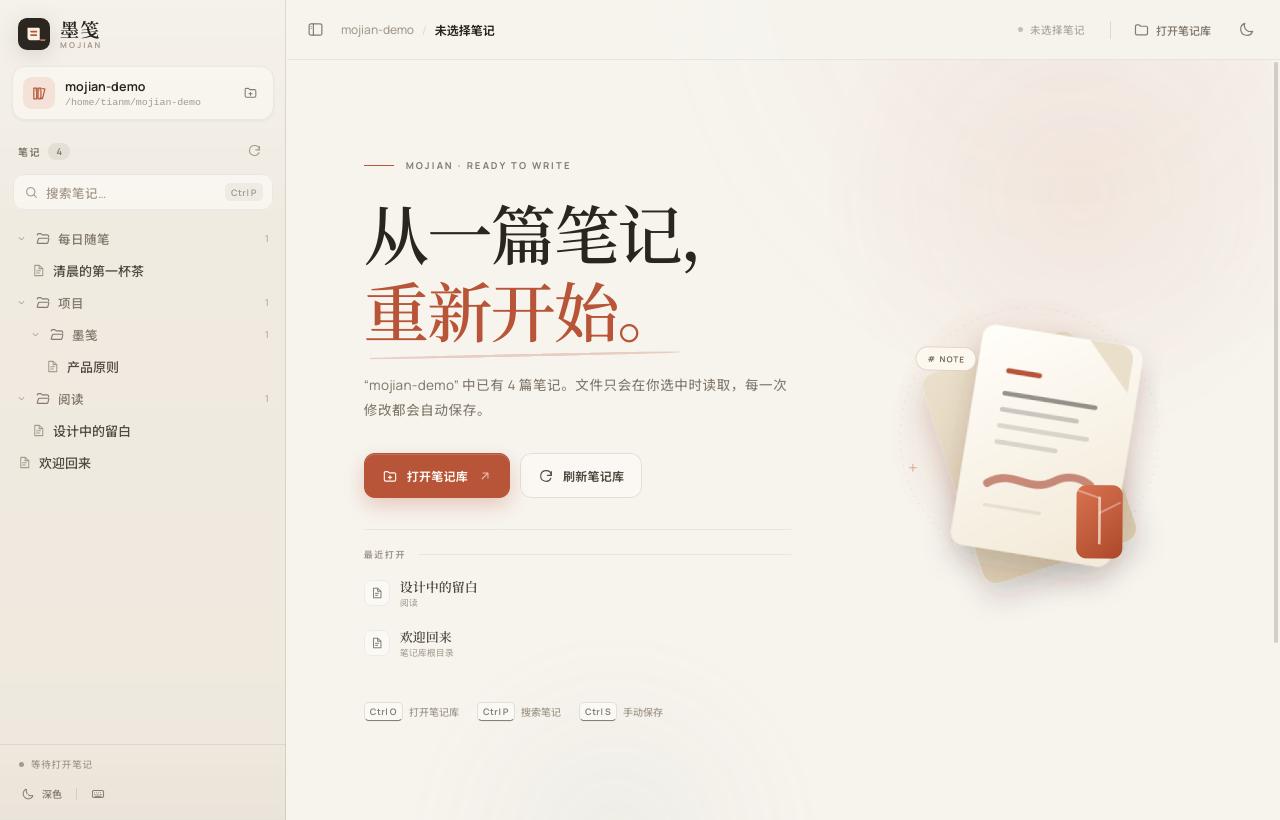
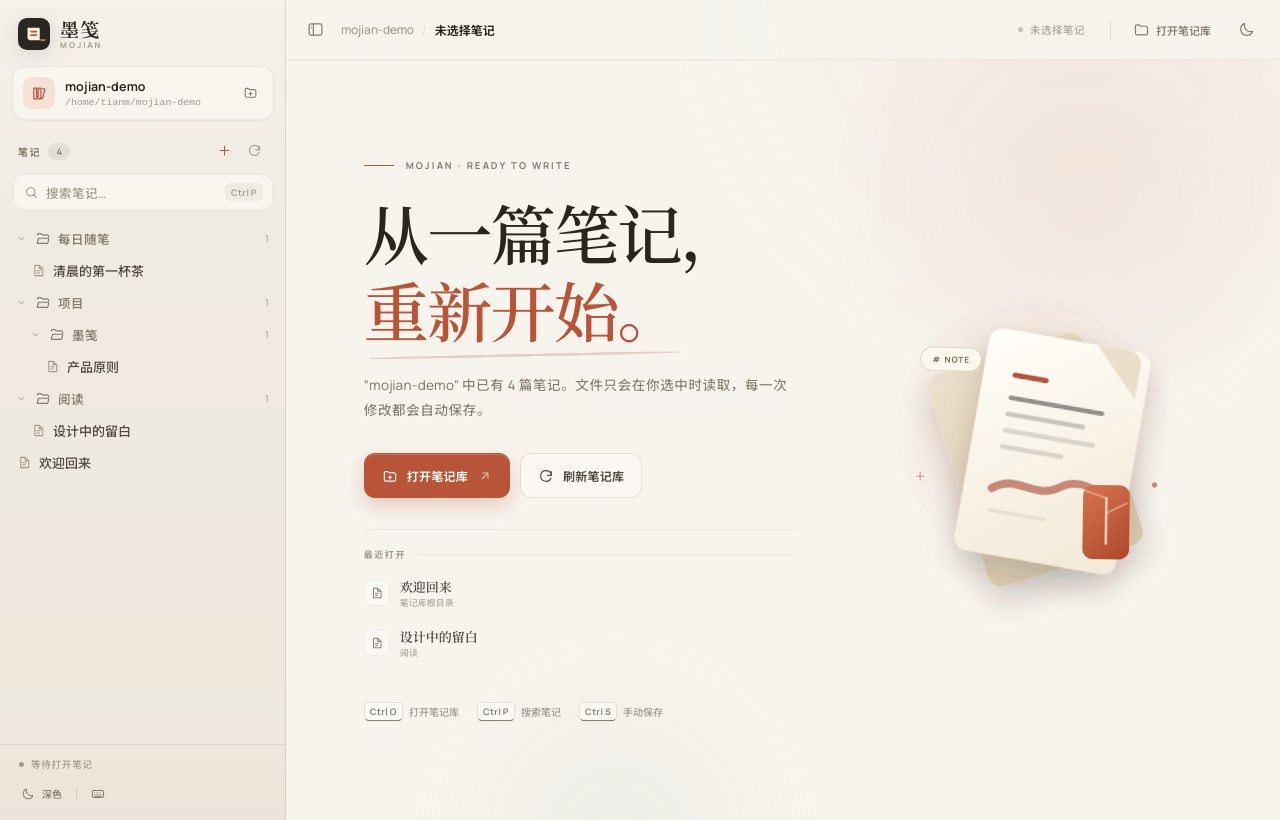
docs: document library management and refresh screenshots

diff --git a/README.md b/README.md
@@ -2,7 +2,7 @@
 
 > 安静地写，自动地存。
 
-墨笺是一款基于 **Tauri 2** 的桌面 Markdown 编辑器。打开一个本地文件夹作为笔记库，在左侧选择 `.md` 文件，用 [Vditor](https://github.com/Vanessa219/vditor) 的 **IR 即时渲染模式**在单屏内写作。文件只在被选中时读取，每一次编辑都会自动原子写回磁盘。
+墨笺是一款基于 **Tauri 2** 的桌面 Markdown 编辑器。打开一个本地文件夹作为笔记库，在左侧选择 `.md` 文件，用 [Vditor](https://github.com/Vanessa219/vditor) 的 **IR 即时渲染模式**在单屏内写作。文件只在被选中时读取，每一次编辑都会自动原子写回磁盘；你也可以直接新建笔记、整理文件夹、重命名和删除笔记。
 
 ![墨笺 · 浅色欢迎页](docs/screenshots/welcome-light.png)
 
@@ -14,14 +14,31 @@
 ## 特性
 
 - **文件夹即笔记库**：通过原生文件夹选择器打开任意本地目录，递归发现其中的 `.md` / `.markdown` 文件。
+- **完整的笔记库管理**：左侧 `+` 菜单、右键菜单和键盘快捷键可新建笔记、新建文件夹；笔记支持重命名与删除。空文件夹也会保留在树中。
 - **按需加载**：扫描阶段只读取文件元信息；正文只在你选中某篇笔记时读取，不做全量预加载。
 - **单屏 IR 编辑**：Vditor IR 模式将 Markdown 语法与排版结果放在同一张“纸”上，没有左右分栏。
 - **实时自动保存**：编辑停止约 720ms 后自动保存；点击保存状态或 `Ctrl/⌘ + S` 可立即写入。
 - **离开也不丢字**：切换笔记、刷新笔记库、窗口失焦与关闭窗口前都会按编辑器当前值强制保存；保存失败时窗口不会关闭。
-- **安全文件操作**：工作区状态保存在 Rust 端；路径经过规范化、扩展名检查、工作区后代校验与符号链接逃逸防护；保存采用同目录临时文件 + 原子重命名。
+- **安全文件操作**：工作区状态保存在 Rust 端；所有读写、新建、重命名与删除都经过规范化、工作区后代校验与符号链接逃逸防护。保存采用同目录临时文件 + 原子重命名。
 - **安静的界面**：温暖纸张色、朱砂强调色、Noto Serif 正文、可折叠文件夹树、搜索过滤、最近打开、深浅双主题。
 - **完全离线**：Vditor 的 Lute 解析器、图标、代码高亮、主题 CSS 与中文字体均随应用打包，不请求 CDN。
 - **原生桌面体验**：Tauri 2 窗口、系统文件夹选择器、外部链接交给系统浏览器、退出前保存保护。
+
+## 笔记库管理
+
+在左侧 **笔记** 标题旁的 `+` 打开新建菜单；也可以右键任意文件夹或笔记，直接在该位置执行操作。当前笔记的文档头部还提供重命名与删除按钮。
+
+<p align="center">
+  <img src="docs/screenshots/library-menu.png" width="49%" alt="新建笔记与新建文件夹菜单" />
+  <img src="docs/screenshots/library-actions.png" width="49%" alt="笔记右键操作菜单" />
+</p>
+
+- **新建笔记**：`Ctrl/⌘ + N`，或左侧 `+` / 右键菜单。输入名称后创建 `.md` 文件并自动打开。
+- **新建文件夹**：`Ctrl/⌘ + ⇧ + N`，或左侧 `+` / 右键菜单。父目录必须存在，每次创建一个层级。
+- **重命名笔记**：`F2`、文档头铅笔按钮，或笔记右键菜单。内容保持不变，扩展名保持不变。
+- **删除笔记**：文档头垃圾桶按钮，或笔记右键菜单。确认后永久删除；如果正在编辑该笔记，删除前会先完成保存，随后关闭编辑区。
+
+新建位置会优先跟随当前笔记所在文件夹；右键文件夹则直接在该文件夹内创建。名称会经过校验，不能包含路径分隔符、隐藏前缀或系统保留名，也不会覆盖同名文件。
 
 ## 快速开始
 
@@ -51,7 +68,7 @@ npm run check
 npm run build
 ```
 
-运行 Rust 测试（17 项）：
+运行 Rust 测试（29 项）：
 
 ```bash
 cd src-tauri
@@ -60,43 +77,48 @@ cargo test
 
 ## 使用说明
 
-1. 点击 **打开笔记库**，选择任意包含 Markdown 文件的文件夹。
-2. 在左侧文件夹树中选择一篇笔记，正文随即载入 Vditor。
-3. 直接写作。右上角状态会依次显示“待保存 → 正在保存 → 已保存”，并记录保存时间。
-4. 使用搜索框或 `Ctrl/⌘ + P` 按文件名与相对路径筛选笔记。
-5. 点击右上角主题按钮，在浅色 / 深色间切换；主题和上次打开的笔记库会保留。
+1. 点击 **打开笔记库**，选择任意文件夹作为工作区。
+2. 使用左侧 `+` 新建笔记或文件夹；在文件夹上右键可指定创建位置。
+3. 在左侧文件夹树中选择一篇笔记，正文随即载入 Vditor。
+4. 直接写作。右上角状态会依次显示“待保存 → 正在保存 → 已保存”，并记录保存时间。
+5. 使用文档头部的铅笔 / 垃圾桶按钮或 `F2` 管理当前笔记。
+6. 使用搜索框或 `Ctrl/⌘ + P` 按文件名与相对路径筛选笔记。
+7. 点击右上角主题按钮，在浅色 / 深色间切换；主题和上次打开的笔记库会保留。
 
 | 快捷键 | 功能 |
 | --- | --- |
 | `Ctrl/⌘ + O` | 打开 / 切换笔记库 |
+| `Ctrl/⌘ + N` | 新建笔记 |
+| `Ctrl/⌘ + ⇧ + N` | 新建文件夹 |
+| `F2` | 重命名当前笔记 |
 | `Ctrl/⌘ + P` | 聚焦笔记搜索 |
 | `Ctrl/⌘ + S` | 立即保存 |
 | `Ctrl/⌘ + \` | 显示 / 收起侧边栏 |
 | `Ctrl/⌘ + ⇧ + L` | 切换主题 |
 | `Ctrl/⌘ + B` / `I` | 加粗 / 斜体（Vditor） |
 
-文件夹会记住展开 / 收起状态；侧边栏宽度也能拖动调整并持久化。
+文件夹会记住展开 / 收起状态；侧边栏宽度和主题也能拖动 / 切换并持久化。
 
 ## 技术架构
 
 ```text
 .
-├── index.html                    # 应用壳层、欢迎页、编辑器容器
+├── index.html                    # 应用壳层、欢迎页、编辑器与操作对话框
 ├── src/
-│   ├── main.ts                   # 应用状态、文件选择、自动保存、窗口生命周期
+│   ├── main.ts                   # 应用状态、文件管理、自动保存、窗口生命周期
 │   ├── icons.ts                  # 线性图标与图标注入
 │   ├── styles.css                # 设计令牌、布局、Vditor 外观、主题
 │   └── lib/
 │       ├── api.ts                # Tauri command 类型化封装
 │       ├── editor.ts             # Vditor IR 配置与主题同步
-│       ├── file-tree.ts          # 扁平笔记列表 → 文件夹树 / 搜索
+│       ├── file-tree.ts          # 笔记 + 文件夹路径 → 文件夹树 / 搜索
 │       ├── format.ts             # 时间、字数、阅读时长
 │       └── storage.ts            # 主题、最近打开、侧边栏状态等本地偏好
 ├── src-tauri/
 │   ├── src/lib.rs                # Tauri 入口、命令注册、工作区状态
-│   ├── src/workspace.rs          # 文件夹校验、递归扫描、元信息
-│   ├── src/security.rs           # 相对路径校验、工作区后代 / 符号链接防护
-│   ├── src/notes.rs              # 按需读取、原子保存、权限保留
+│   ├── src/workspace.rs          # 文件夹校验、递归扫描、笔记 / 文件夹列表
+│   ├── src/security.rs           # 路径 / 名称校验、工作区后代 / 符号链接防护
+│   ├── src/notes.rs              # 读取、原子保存、新建、重命名与删除
 │   ├── capabilities/default.json # 最小化插件权限
 │   └── tauri.conf.json
 ├── scripts/sync-vditor-assets.mjs # 将 Vditor 离线运行时资源同步到 public/
@@ -107,27 +129,33 @@ cargo test
 
 | Command | 作用 |
 | --- | --- |
-| `open_workspace(path)` | 校验并激活文件夹，扫描出扁平笔记列表 |
+| `open_workspace(path)` | 校验并激活文件夹，返回笔记与文件夹列表 |
 | `rescan_workspace()` | 重新扫描当前笔记库 |
 | `read_note(path)` | 按工作区相对路径读取单篇正文 |
-| `save_note(path, content)` | 原子保存已存在的 Markdown 文件 |
+| `save_note(path, content)` | 原子保存一个工作区内的 Markdown 文件 |
+| `create_folder(parent, name)` | 在指定相对目录中创建一个文件夹 |
+| `create_note(parent, name)` | 在指定相对目录中创建一个新的空 Markdown 文件 |
+| `rename_note(path, new_name)` | 在同一目录内重命名笔记 |
+| `delete_note(path)` | 删除指定的 Markdown 文件 |
 
-返回字段均为 camelCase，与 `src/lib/api.ts` 一一对应。
+返回值与参数均为 camelCase；`WorkspaceInfo` 包含 `notes` 与 `folders` 两个扁平列表，前端据此构建树。`folders` 包含空目录，因此刚创建或删空内容的文件夹不会从界面消失。
 
 ### 安全边界
 
 - 前端不能直接访问任意路径：当前工作区是 Rust 端受管状态。
 - 笔记路径必须是工作区内的相对路径；拒绝绝对路径、`C:\` / UNC、反斜杠、`.`、`..`、空段与非 Markdown 扩展名。
-- 读取与写入都会 canonicalize 目标并验证其仍是工作区后代，逃逸的符号链接会被拒绝。
+- 新建 / 重命名的名称必须是单一路径段：拒绝斜杠、空名称、隐藏前缀、`.` / `..`、控制字符、Windows 保留设备名、尾随空格 / 点号，并保持文件扩展名为 `.md` / `.markdown`。
+- 父目录会先校验每个路径段、再 canonicalize，并且必须仍是工作区后代；符号链接逃逸会被拒绝。
 - 扫描不跟随符号链接；跳过隐藏项以及 `node_modules`、`target`、`dist`、`build` 等常见噪声目录。
 - 保存：同目录隐藏临时文件 → 写入 → 保留原权限 → `sync_all` → 原子重命名；失败时清理临时文件。
-- 只写已存在的 `.md` / `.markdown`；应用不会创建、删除或重命名文件。
+- 新建采用 `create_new` 且不覆盖已有文件；重命名只在同一目录内进行并拒绝已存在的目标；删除只接受已解析的工作区 Markdown 文件。
 
 ### 自动保存策略
 
 - 输入后 720ms 防抖自动保存，避免每个按键都写盘。
 - 保存操作串行化；保存过程中出现的新内容会在本次写入完成后继续落盘。
 - 关闭窗口 / 切换笔记 / 刷新前，会直接读取 Vditor 当前值并强制保存，不依赖输入回调的调度时序。
+- 删除当前笔记前会先完成保存，避免删除后仍有迟到的写入把文件重新创建出来。
 - 保存失败时状态变为“保存失败”，并提供重试；关闭窗口会因此被阻止，直到保存成功。
 
 ### 离线资源
@@ -139,10 +167,13 @@ cargo test
 本项目按以下阶段完成：
 
 1. **基础与设计系统** —— Tauri 2 + Vite + TypeScript 脚手架，窗口配置、字体、主题令牌与应用图标。
-2. **安全文件层** —— Rust 工作区状态、递归扫描、路径校验、按需读取、原子保存与 17 项单元测试。
+2. **安全文件层** —— Rust 工作区状态、递归扫描、路径校验、按需读取、原子保存与单元测试。
 3. **编辑体验** —— Vditor IR 单屏编辑器、工具栏、文件树、搜索、最近打开、字数统计与自动保存状态。
-4. **集成与验收** —— 原生文件夹选择、浏览器预览截图、自动保存写盘验证、关闭前保存验证、深浅主题验收。
-5. **交付与文档** —— 离线资源同步、应用元数据、README、截图和 Git 历史。
+4. **笔记库管理** —— 新建空文件夹与笔记、重命名、删除、上下文菜单、操作对话框，以及安全文件名校验。
+5. **集成与验收** —— 原生文件夹选择、自动保存写盘验证、删除 / 重命名 / 空文件夹验证、关闭前保存验证、深浅主题验收。
+6. **交付与文档** —— 离线资源同步、应用元数据、README、截图、Git 历史与 Debian 安装包。
+
+当前 Rust 测试共 **29 项**，覆盖路径穿越、符号链接逃逸、名称校验、不覆盖目标、重命名内容保留、删除边界、空文件夹扫描和 camelCase 负载。
 
 ## 已知边界
 
@@ -150,11 +181,12 @@ cargo test
 - 外部程序修改文件后需要点击“刷新笔记库”重新扫描；当前不监听底层文件变化。
 - 符号链接会被有意忽略（既是逃逸防护，也避免环路）。
 - 为保持离线与轻量，当前未启用数学公式 / Mermaid 等重运行时渲染；代码高亮与完整 Markdown 排版可用。
-- 不创建新笔记、不提供重命名 / 删除；所有写操作只针对已存在的 Markdown 文件。
+- 文件夹创建为单层且不支持重命名 / 删除文件夹；当前没有回收站，删除笔记不可撤销。
+- 仅支持 `.md` / `.markdown` 笔记文件；新建笔记固定以 `.md` 创建。
 
 ## 设计说明
 
-界面的核心是“纸感”而不是“后台面板感”：暖白纸张底色、极细分割线、朱砂色焦点、衬线正文，以及尽量退后的工具栏。深色主题使用墨色背景与更柔和的暖珊瑚色强调，保持夜间阅读的对比度而不刺眼。
+界面的核心是“纸感”而不是“后台面板感”：暖白纸张底色、极细分割线、朱砂色焦点、衬线正文，以及尽量退后的工具栏。深色主题使用墨色背景与更柔和的暖珊瑚色强调，保持夜间阅读的对比度而不刺眼。笔记库管理入口保持轻量：默认只看得到一颗朱砂色的 `+`，需要时再展开菜单或右键。
 
 ---
 
